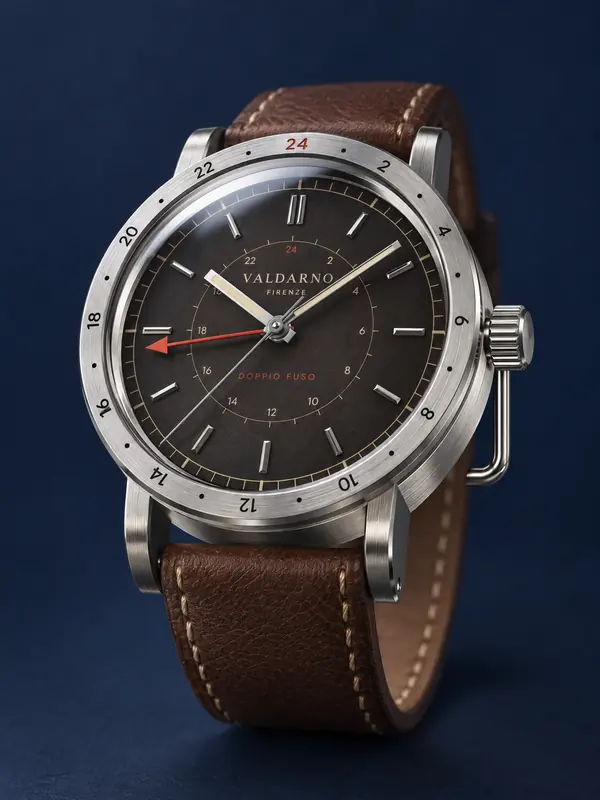
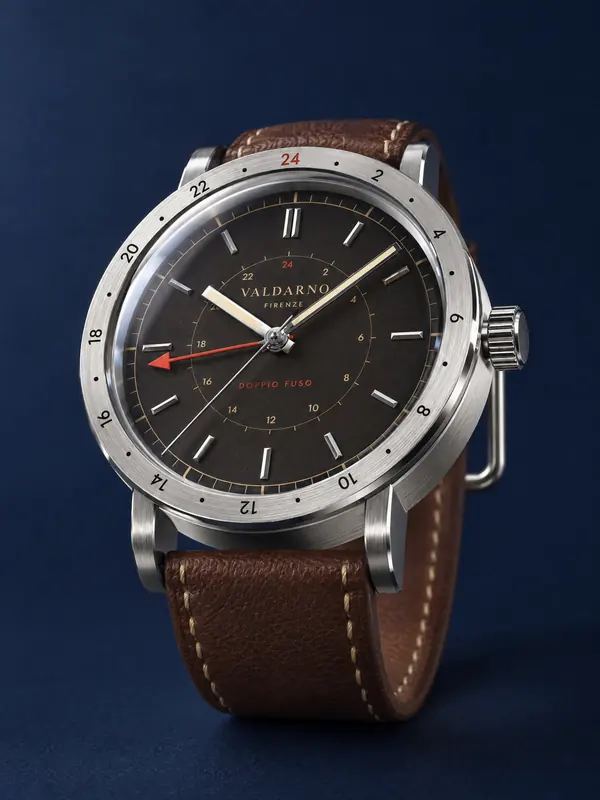
Photograph the Doppio Fuso and the four close-ups; fix image proportions
- Doppio Fuso photographed again from the corrected model
- Each detail inset is now its own close-up photograph (1200 x 1600),
  not a crop of the catalogue plate
- Images keep their proportions now that they carry width and height
  (the detail insets had been drawn at their full pixel height)
- The workshop film's backdrop pointed at a poster that no longer exists
- On phones the "Turn it" button sits clear of the detail print

Claude-Session: https://claude.ai/code/session_01DaHdGY7VMR2cjoS2jRirAt

Changed region(s): [[0.12, 0.0938, 0.9, 0.9062]]

diff --git a/src/styles/sections.css b/src/styles/sections.css
@@ -633,7 +633,7 @@
   display: flex;
   flex-direction: column;
   justify-content: flex-end;
-  background: #0b1122 url('/video/film-hands-poster.webp') center / cover no-repeat;
+  background: #0b1122 url('/video/film-banco-poster.webp') center / cover no-repeat;
 }
 .film video {
   position: absolute;
@@ -1565,11 +1565,15 @@
   .viewer-toggle-short {
     display: inline;
   }
+  /* below the caption, on the side the detail print does not cover */
   .viewer-toggle,
   .watch.is-flipped .viewer-toggle {
     position: static;
     display: flex;
     width: fit-content;
+    margin: 0.35rem auto 0.2rem 0.2rem;
+  }
+  .watch.is-flipped .viewer-toggle {
     margin: 0.35rem 0.2rem 0.2rem auto;
   }
 }

diff --git a/src/sections/picSizes.ts b/src/sections/picSizes.ts
@@ -5,10 +5,10 @@ export const PIC_SIZES: Record<string, [number, number, number]> = {
   'bottega-room': [1800, 1013, 900],
   'bottega-watchmaker': [1396, 1209, 900],
   'calibro': [1800, 1800, 900],
-  'detail-codice': [900, 1200, 600],
-  'detail-doppiofuso': [900, 1200, 600],
-  'detail-lungarno': [900, 1200, 600],
-  'detail-tirreno': [900, 1200, 600],
+  'detail-codice': [1200, 1600, 600],
+  'detail-doppiofuso': [1200, 1600, 600],
+  'detail-lungarno': [1200, 1600, 600],
+  'detail-tirreno': [1200, 1600, 600],
   'notebook-page': [1800, 1199, 900],
   'notebook-spread': [1800, 1013, 900],
   'notebook-watch': [1800, 1104, 900],

diff --git a/src/styles/global.css b/src/styles/global.css
@@ -102,6 +102,10 @@ svg {
   display: block;
   max-width: 100%;
 }
+/* width and height attributes reserve the box; the image itself keeps its proportions */
+img {
+  height: auto;
+}
 a {
   color: inherit;
   text-decoration: none;
